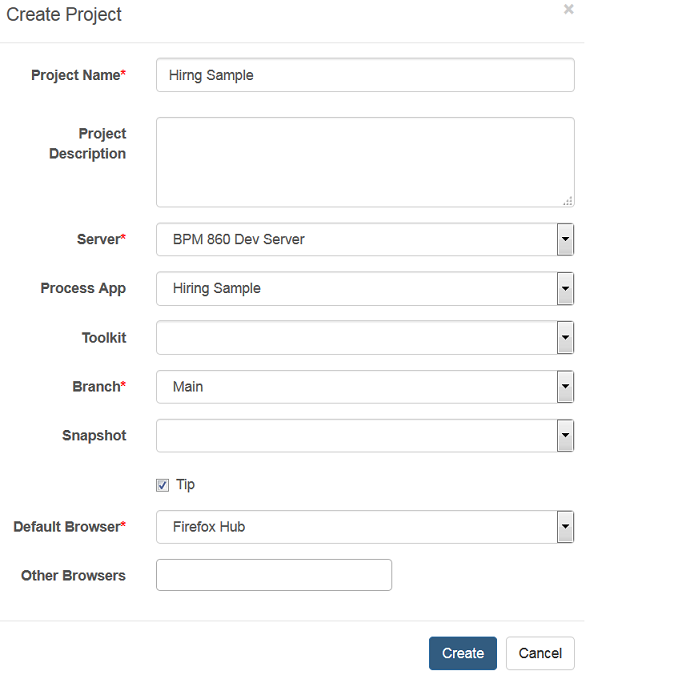
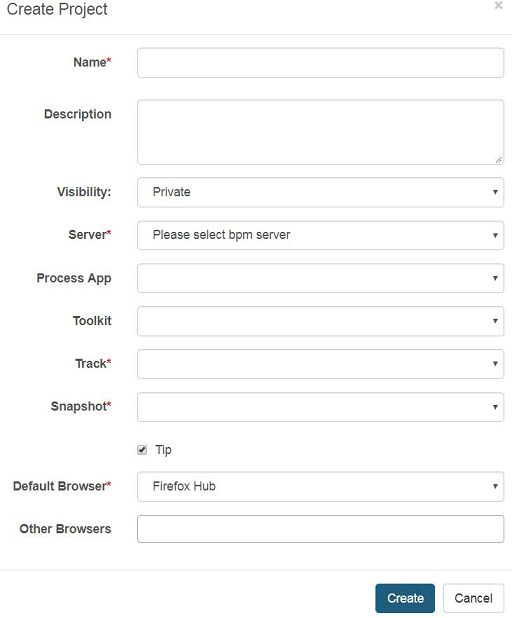
Merge branch 'master' of https://github.com/sdc-china/keter-doc

diff --git a/_posts/2018-01-15-tutorial-create-a-test-project-and-generate-test-cases.md b/_posts/2018-01-15-tutorial-create-a-test-project-and-generate-test-cases.md
@@ -33,7 +33,7 @@ In this task, you will create a new test project. After that you create test cas
 
 To create a new test project:
 
-  1. In the project list page, click **Create Project** button. Name the project name to **Hiring Sample**. Choose the values like below screenshot.
+  1. In the project list page, click **Create Project** button. Name the project name to **Hiring Sample**. Choose the values like below screenshot.For the visibility,you can choose private or team you belong to.
     
      ![][tutorial_createproject] 
   

diff --git a/_posts/2018-01-15-administration-selenium-hub-configuration.md b/_posts/2018-01-15-administration-selenium-hub-configuration.md
@@ -34,7 +34,7 @@ order: 3
   2. Change configurations of the selenium grid. Then click **Save**.
 	 
 ### Delete selenium hub 
-  Select the hub in the **Selemium Hub Configuration** table, then click the 	**delete** icon to delete selenium hub. 	 
+  Select the hub in the **Selemium Hub Configuration** table, then click the 	**Delete** button to delete selenium hub. 	 
 	 
 [administrator_hub]: ../images/administrator/administrator_hub.png
 [Post Installation Setup]: ../installation/installlation-post-installation.html

diff --git a/_posts/2018-01-15-administration-users-management.md b/_posts/2018-01-15-administration-users-management.md
@@ -49,6 +49,7 @@ order: 1
   
   
 [administrator_add]: ../images/administrator/Administrator_add.png
+[administrator_reset]: ../images/administrator/Administrator_reset.png
 [administrator_profile]: ../images/administrator/administrator_profile.PNG
 [administrator_profile_page]: ../images/administrator/administrator_profile_page.PNG
 [administrator_password]: ../images/administrator/administrator_password.png
